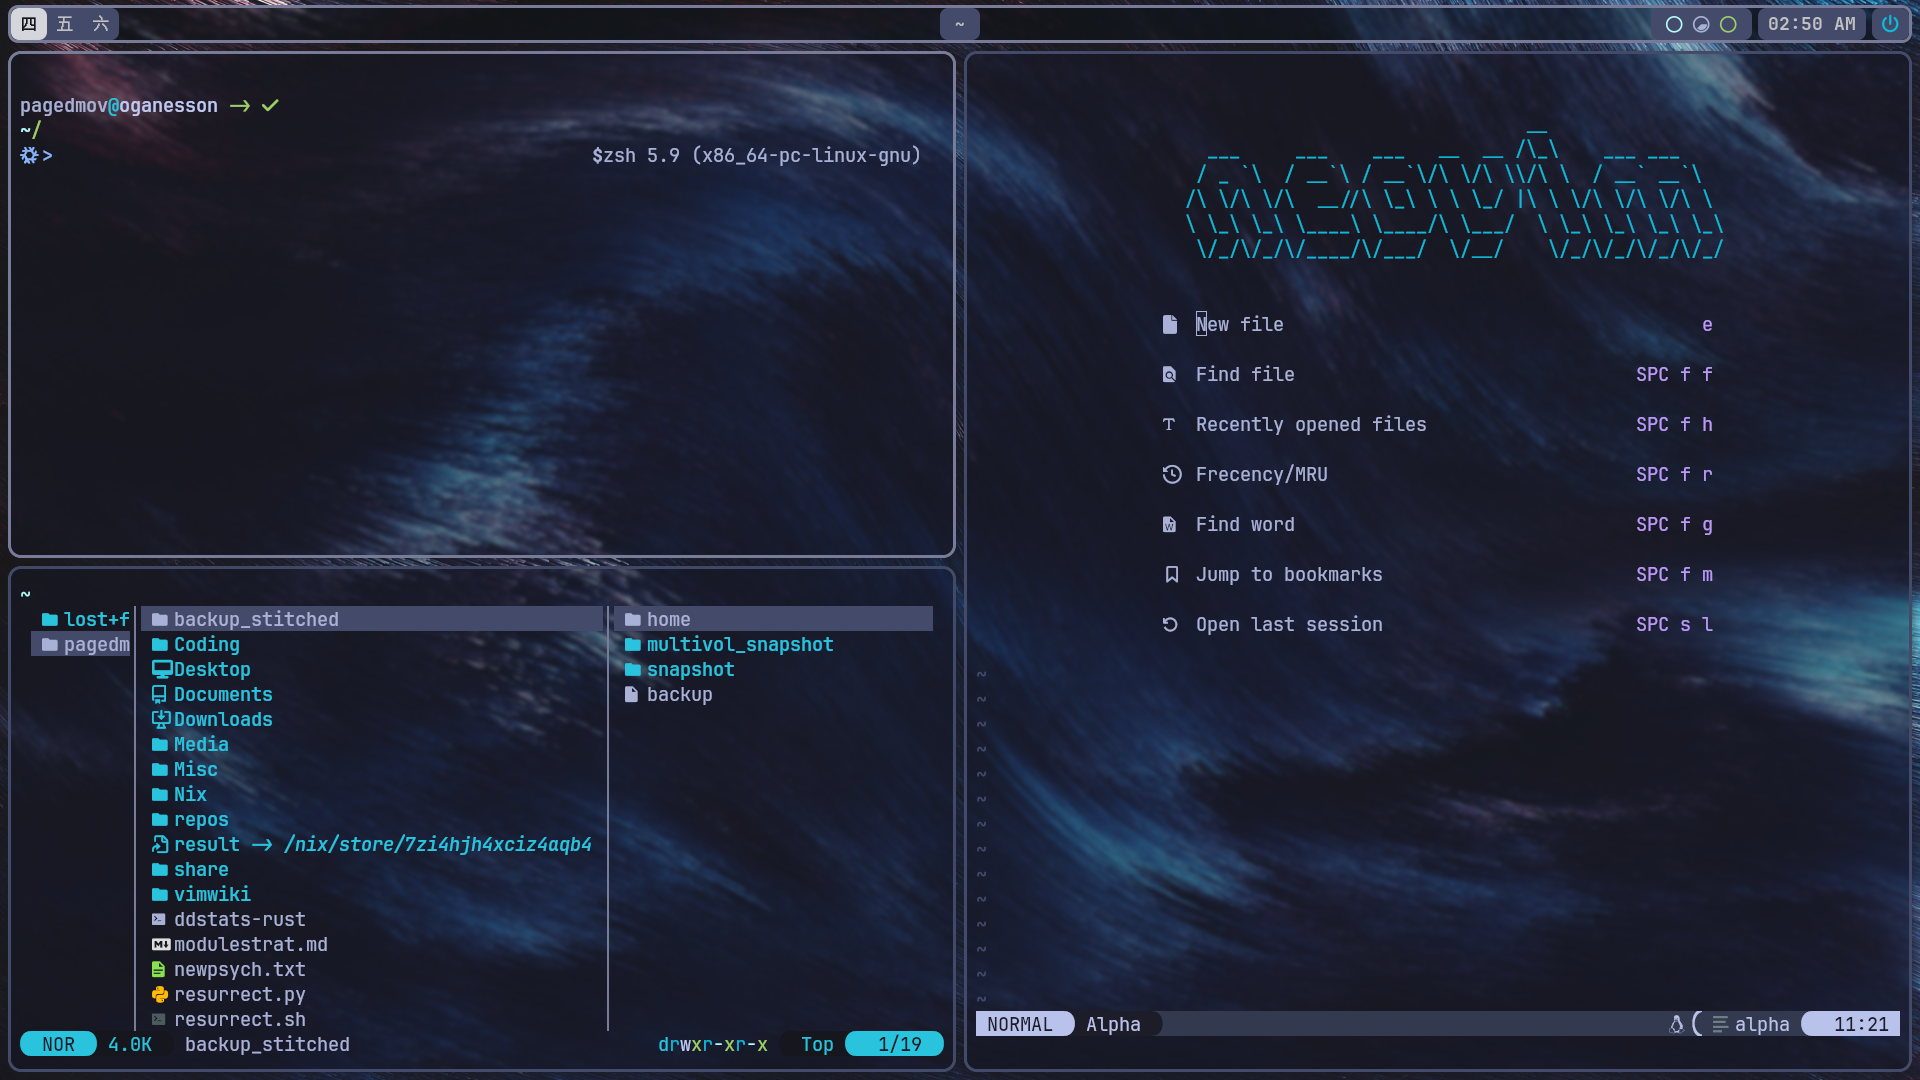
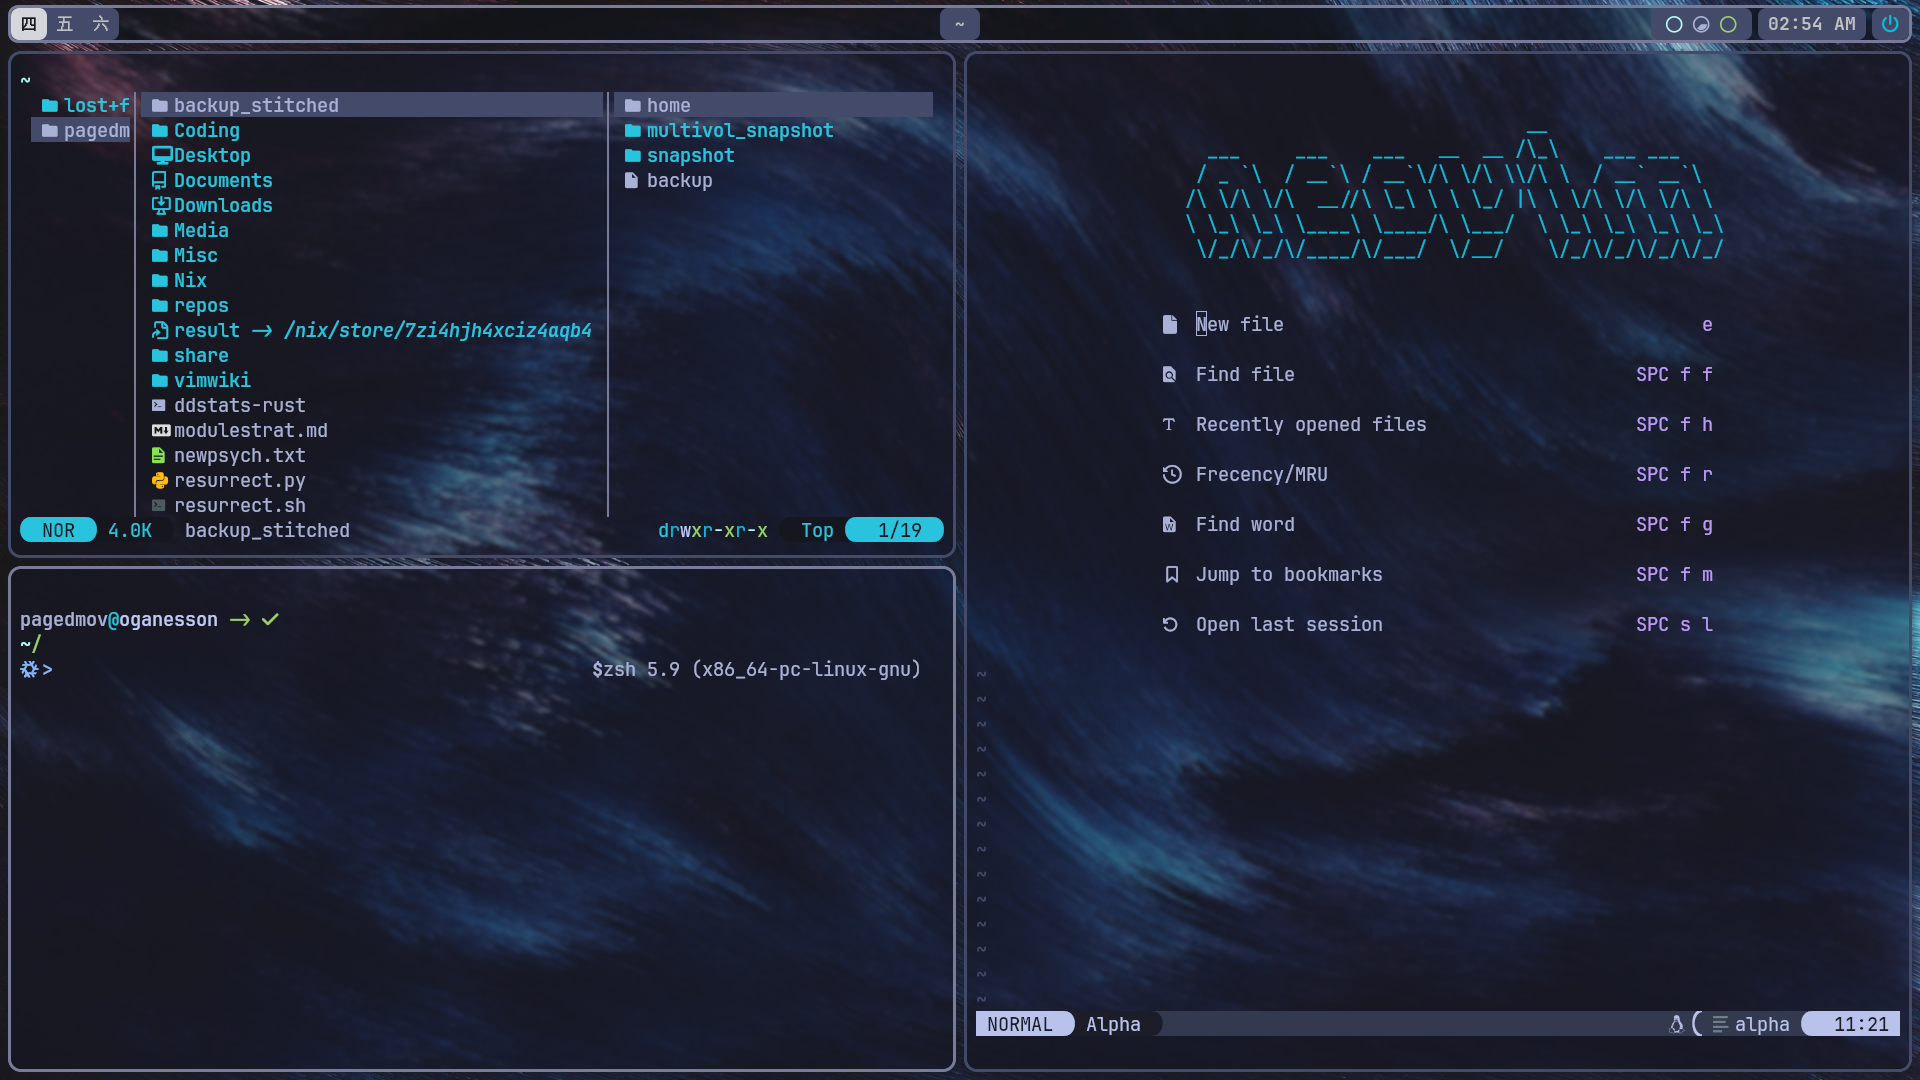
screenshots now use the new nemo position

diff --git a/README.md b/README.md
@@ -13,7 +13,7 @@ If you are on NixOS and have flakes enabled, you can just clone the repo and run
 
 ![desktop-neofetch](./assets/screens/desktop-neofetch.png)
 ![busy-desktop](./assets/screens/desktop-busy.png)
-Screenshots up to date as of [this commit](https://github.com/pagedMov/nixos-config/commit/cb6593f908f24dff3451ba6ed2b900e655d674f0)
+Screenshots up to date as of [this commit](https://github.com/pagedMov/nixos-config/commit/4541ca49feae0ae2a4323ce712133bca9cbf6e1c)
 
 ## Programs
 
